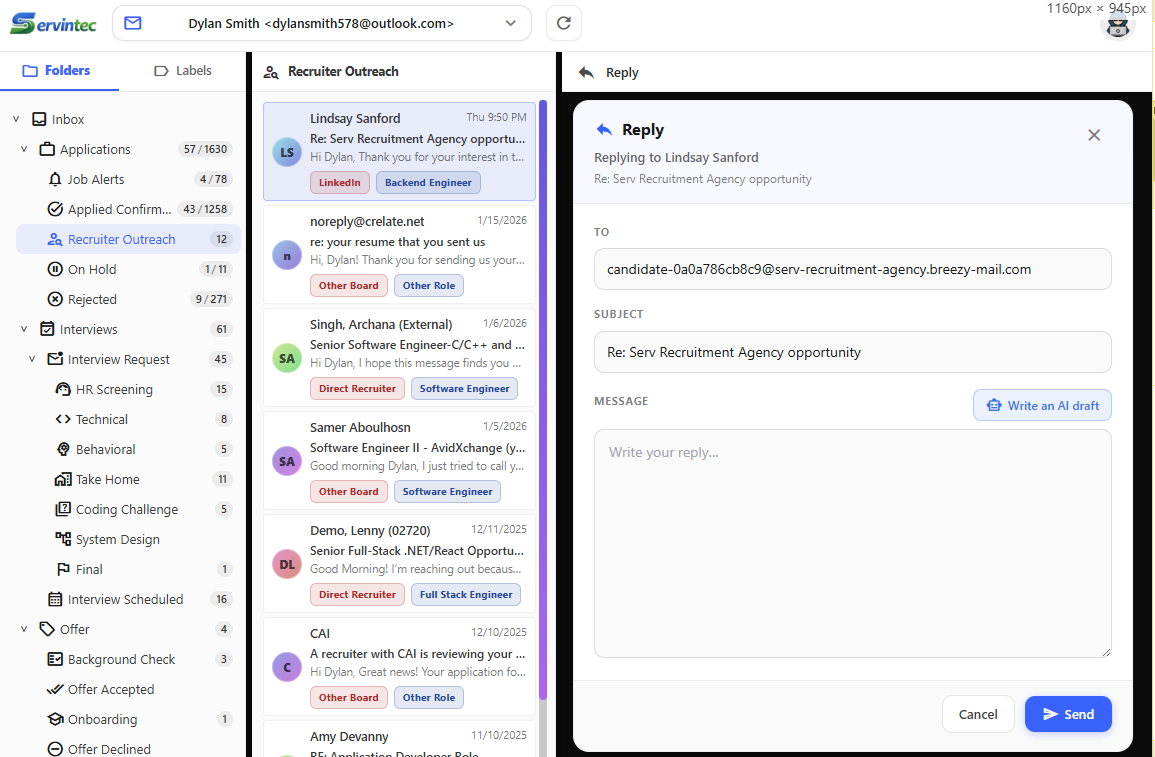
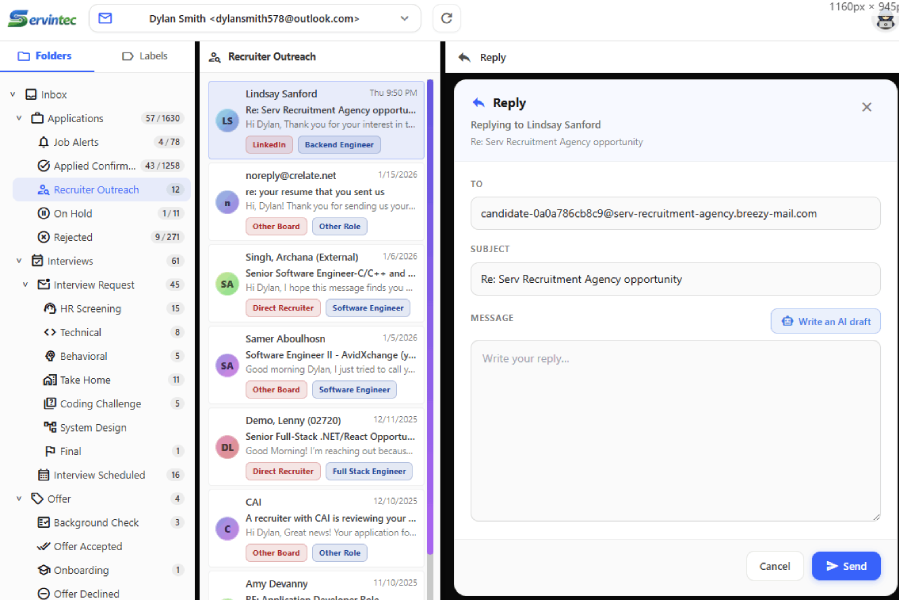
updated auth background

diff --git a/src/components/LoginForm.jsx b/src/components/LoginForm.jsx
@@ -59,159 +59,43 @@ const LoginForm = ({ onLogin }) => {
   };
 
   return (
-    <div
-      style={{
-        height: "100vh",
-        display: "flex",
-        alignItems: "center",
-        justifyContent: "center",
-        background: "linear-gradient(to bottom right, #111827, #581c87, #000)",
-        minHeight: "100vh",
-        position: "relative",
-        overflow: "hidden",
-      }}
-    >
-      {/* Moving gradient layer - drifts across screen */}
+    <div className="min-h-screen flex items-center justify-center relative overflow-hidden bg-gradient-to-br from-gray-900 via-purple-900 to-black" style={{ minHeight: "100vh" }}>
+      {/* Same as first dashboard (HomePage): single cycling radial overlay, opacity 20%, 15s */}
       <div
-        className="auth-page-bg-drift"
-        style={{
-          position: "absolute",
-          inset: "-50%",
-          width: "200%",
-          height: "200%",
-          pointerEvents: "none",
-        }}
+        className="auth-page-bg-glow absolute inset-0 opacity-20 pointer-events-none"
+        aria-hidden
       />
-      {/* Animated radial glow - cycles position */}
-      <div
-        className="auth-page-bg-glow"
-        style={{
-          position: "absolute",
-          inset: 0,
-          opacity: 0.25,
-          pointerEvents: "none",
-        }}
-      />
-      {/* Floating orbs - move around the viewport */}
-      <div className="auth-page-orb auth-page-orb-1" />
-      <div className="auth-page-orb auth-page-orb-2" />
-      <div className="auth-page-orb auth-page-orb-3" />
-      {/* Servintec-style floating items (icons) in background */}
-      <div className="auth-page-float-item auth-page-float-1" style={{ top: "10%", left: "6%" }}><span className="material-icons-outlined">code</span></div>
-      <div className="auth-page-float-item auth-page-float-2" style={{ top: "18%", right: "8%" }}><span className="material-icons-outlined">rocket_launch</span></div>
-      <div className="auth-page-float-item auth-page-float-3" style={{ bottom: "28%", left: "5%" }}><span className="material-icons-outlined">memory</span></div>
-      <div className="auth-page-float-item auth-page-float-4" style={{ bottom: "12%", right: "12%" }}><span className="material-icons-outlined">auto_awesome</span></div>
-      <div className="auth-page-float-item auth-page-float-5" style={{ top: "48%", left: "4%" }}><span className="material-icons-outlined">bolt</span></div>
-      <div className="auth-page-float-item auth-page-float-6" style={{ top: "58%", right: "6%" }}><span className="material-icons-outlined">storage</span></div>
-      <div className="auth-page-float-item auth-page-float-7" style={{ bottom: "48%", left: "10%" }}><span className="material-icons-outlined">public</span></div>
-      <div className="auth-page-float-item auth-page-float-8" style={{ top: "32%", right: "4%" }}><span className="material-icons-outlined">layers</span></div>
       <style>{`
-        @keyframes authPageFloatItem {
-          0%, 100% { opacity: 0.2; transform: translateY(0) scale(1) rotate(0deg); }
-          50% { opacity: 0.4; transform: translateY(-18px) scale(1.15) rotate(8deg); }
-        }
-        .auth-page-float-item {
-          position: absolute;
-          pointer-events: none;
-          z-index: 0;
-          color: rgba(147, 197, 253, 0.35);
-          font-size: 28px;
-          animation: authPageFloatItem 5s ease-in-out infinite;
-        }
-        .auth-page-float-1 { animation-delay: 0s; animation-duration: 5.2s; }
-        .auth-page-float-2 { animation-delay: 0.5s; animation-duration: 6s; }
-        .auth-page-float-3 { animation-delay: 1s; animation-duration: 5.5s; }
-        .auth-page-float-4 { animation-delay: 1.5s; animation-duration: 6.2s; }
-        .auth-page-float-5 { animation-delay: 0.3s; animation-duration: 5.8s; }
-        .auth-page-float-6 { animation-delay: 0.8s; animation-duration: 5.4s; }
-        .auth-page-float-7 { animation-delay: 1.2s; animation-duration: 6.5s; }
-        .auth-page-float-8 { animation-delay: 0.6s; animation-duration: 5.6s; }
-      `}</style>
-      <style>{`
-        @keyframes authPageBgDrift {
-          0%, 100% { transform: translate(0, 0) scale(1); }
-          25% { transform: translate(2%, 1%) scale(1.02); }
-          50% { transform: translate(-1%, 2%) scale(0.98); }
-          75% { transform: translate(1%, -1%) scale(1.01); }
-        }
-        .auth-page-bg-drift {
-          background: radial-gradient(ellipse 80% 50% at 30% 40%, rgba(59, 130, 246, 0.25) 0%, transparent 50%),
-                      radial-gradient(ellipse 60% 80% at 70% 60%, rgba(147, 51, 234, 0.25) 0%, transparent 50%),
-                      radial-gradient(ellipse 50% 50% at 50% 50%, rgba(99, 102, 241, 0.15) 0%, transparent 60%);
-          animation: authPageBgDrift 20s ease-in-out infinite;
-        }
         @keyframes authPageBgGlow {
           0%, 100% {
-            background: radial-gradient(circle at 20% 50%, rgba(59, 130, 246, 0.35) 0%, transparent 50%);
+            background: radial-gradient(circle at 20% 50%, rgba(59, 130, 246, 0.3) 0%, transparent 50%);
           }
           33% {
-            background: radial-gradient(circle at 80% 50%, rgba(147, 51, 234, 0.35) 0%, transparent 50%);
+            background: radial-gradient(circle at 80% 50%, rgba(147, 51, 234, 0.3) 0%, transparent 50%);
           }
           66% {
-            background: radial-gradient(circle at 50% 80%, rgba(59, 130, 246, 0.35) 0%, transparent 50%);
+            background: radial-gradient(circle at 50% 80%, rgba(59, 130, 246, 0.3) 0%, transparent 50%);
           }
         }
         .auth-page-bg-glow {
-          animation: authPageBgGlow 12s ease-in-out infinite;
-        }
-        @keyframes authPageOrb1 {
-          0%, 100% { transform: translate(0, 0) scale(1); }
-          25% { transform: translate(30px, -40px) scale(1.1); }
-          50% { transform: translate(-20px, 20px) scale(0.9); }
-          75% { transform: translate(40px, 30px) scale(1.05); }
-        }
-        @keyframes authPageOrb2 {
-          0%, 100% { transform: translate(0, 0) scale(1); }
-          33% { transform: translate(-50px, -30px) scale(1.15); }
-          66% { transform: translate(25px, 50px) scale(0.95); }
-        }
-        @keyframes authPageOrb3 {
-          0%, 100% { transform: translate(0, 0) scale(1); }
-          50% { transform: translate(-30px, -50px) scale(1.2); }
-        }
-        .auth-page-orb {
-          position: absolute;
-          border-radius: 50%;
-          pointer-events: none;
-          filter: blur(40px);
-        }
-        .auth-page-orb-1 {
-          width: 320px;
-          height: 320px;
-          background: radial-gradient(circle, rgba(59, 130, 246, 0.4) 0%, transparent 70%);
-          top: 10%;
-          left: 15%;
-          animation: authPageOrb1 18s ease-in-out infinite;
-        }
-        .auth-page-orb-2 {
-          width: 280px;
-          height: 280px;
-          background: radial-gradient(circle, rgba(147, 51, 234, 0.4) 0%, transparent 70%);
-          bottom: 20%;
-          right: 10%;
-          animation: authPageOrb2 22s ease-in-out infinite;
-        }
-        .auth-page-orb-3 {
-          width: 240px;
-          height: 240px;
-          background: radial-gradient(circle, rgba(99, 102, 241, 0.35) 0%, transparent 70%);
-          top: 50%;
-          left: 50%;
-          margin: -120px 0 0 -120px;
-          animation: authPageOrb3 15s ease-in-out infinite;
+          animation: authPageBgGlow 15s ease-in-out infinite;
         }
       `}</style>
       <style>{`
-        /* Auth inputs: same as Get in Touch - white text on dark glass; placeholder visible */
+        /* Auth inputs: same as Get in Touch - dark glass background even when browser applies autofill on blur */
         .auth-form-input::placeholder {
           color: rgba(156, 163, 175, 0.9);
         }
         .auth-form-input:-webkit-autofill,
         .auth-form-input:-webkit-autofill:hover,
-        .auth-form-input:-webkit-autofill:focus {
-          -webkit-text-fill-color: #f3f4f6;
-          -webkit-box-shadow: 0 0 0 1000px rgba(0, 0, 0, 0.2) inset;
+        .auth-form-input:-webkit-autofill:focus,
+        .auth-form-input:-webkit-autofill:active {
+          -webkit-text-fill-color: #f3f4f6 !important;
+          -webkit-box-shadow: 0 0 0 1000px rgba(0, 0, 0, 0.2) inset !important;
+          transition: background-color 5000s ease-in-out 0s;
         }
+      `}</style>
+      <style>{`
         @keyframes slideIn {
           from {
             opacity: 0;
@@ -247,16 +131,8 @@ const LoginForm = ({ onLogin }) => {
           Back to Servintec
         </Link>
 
-        {/* Logo and Header - same style as Get in Touch CardHeader */}
+        {/* Header - same style as Get in Touch CardHeader */}
         <div className="flex flex-col items-center mb-8">
-          <img
-            src="/servintec-logo.png"
-            alt="Servintec"
-            className="h-14 w-auto object-contain mb-4"
-            onError={(e) => {
-              e.target.style.display = "none";
-            }}
-          />
           <h1 className="text-white text-3xl font-semibold font-heading m-0 text-center">
             {isSignup ? "Create Account" : "Welcome Back"}
           </h1>

diff --git a/src/website/components/sections/HeroSection.jsx b/src/website/components/sections/HeroSection.jsx
@@ -206,14 +206,14 @@ const HeroSection = () => {
         </motion.div>
       </div>
 
-      <div className="w-full max-w-7xl relative mx-4 z-10 flex flex-row items-center justify-center gap-8 sm:gap-12">
+      <div className="w-full max-w-7xl relative mx-4 z-10 flex flex-row items-start justify-center gap-8 sm:gap-12">
         <motion.div
           initial={{ opacity: 0, x: 30, scale: 0.9 }}
           animate={{ opacity: 1, x: 0, scale: 1 }}
           transition={{ duration: 0.8, delay: 0.3, ease: "easeOut" }}
-          className="relative w-full max-w-[460px] sm:max-w-xl h-[320px] sm:h-[420px] flex-shrink-0"
+          className="relative w-full max-w-[460px] sm:max-w-xl flex-shrink-0 flex flex-col items-center"
         >
-          <div className="rounded-2xl relative z-10 w-full h-full overflow-hidden bg-white/5 border border-white/10">
+          <div className="rounded-2xl relative z-10 w-full h-[320px] sm:h-[420px] overflow-hidden bg-white/5 border border-white/10">
             <ImageCarousel
               images={["/images/hero1.png"]}
               autoPlay={true}
@@ -224,16 +224,19 @@ const HeroSection = () => {
               Launching Soon
             </span>
           </div>
+          <p className="text-gray-400 text-sm sm:text-base mt-3 text-center px-2 w-full">
+            VPN service coming soon. Secure browsing, anywhere.
+          </p>
         </motion.div>
         <motion.div
           initial={{ opacity: 0, x: 30, scale: 0.9 }}
           animate={{ opacity: 1, x: 0, scale: 1 }}
           transition={{ duration: 0.8, delay: 0.4, ease: "easeOut" }}
-          className="relative w-full max-w-[460px] sm:max-w-xl h-[320px] sm:h-[420px] flex-shrink-0"
+          className="relative w-full max-w-[460px] sm:max-w-xl flex-shrink-0 flex flex-col items-center"
         >
           <Link
             to="/email"
-            className="block w-full h-full rounded-2xl overflow-hidden bg-white/5 border border-white/10 hover:border-blue-400/50 hover:shadow-lg hover:shadow-blue-500/20 transition-all duration-300 group"
+            className="block w-full h-[320px] sm:h-[420px] rounded-2xl overflow-hidden bg-white/5 border border-white/10 hover:border-blue-400/50 hover:shadow-lg hover:shadow-blue-500/20 transition-all duration-300 group"
           >
             <img
               src="/images/hero2.png"
@@ -241,6 +244,9 @@ const HeroSection = () => {
               className="w-full h-full object-contain group-hover:scale-105 transition-transform duration-300"
             />
           </Link>
+          <p className="text-gray-400 text-sm sm:text-base mt-3 text-center px-2 w-full">
+            AI Email Categorizer — never miss a job reply again.
+          </p>
         </motion.div>
       </div>
     </header>

diff --git a/index.html b/index.html
@@ -3,6 +3,11 @@
   <head>
     <meta charset="utf-8" />
     <link rel="icon" href="/favicon.ico" />
+    <!-- Preconnect and preload icon fonts so /email page icons render without flash of text -->
+    <link rel="preconnect" href="https://fonts.googleapis.com" />
+    <link rel="preconnect" href="https://fonts.gstatic.com" crossorigin />
+    <link rel="preload" href="https://fonts.googleapis.com/icon?family=Material+Icons+Outlined" as="style" />
+    <link rel="preload" href="https://fonts.googleapis.com/icon?family=Material+Icons" as="style" />
     <link href="https://fonts.googleapis.com/icon?family=Material+Icons" rel="stylesheet"/>
     <link rel="stylesheet" href="https://fonts.googleapis.com/icon?family=Material+Icons+Outlined">
     <meta name="viewport" content="width=device-width, initial-scale=1" />
